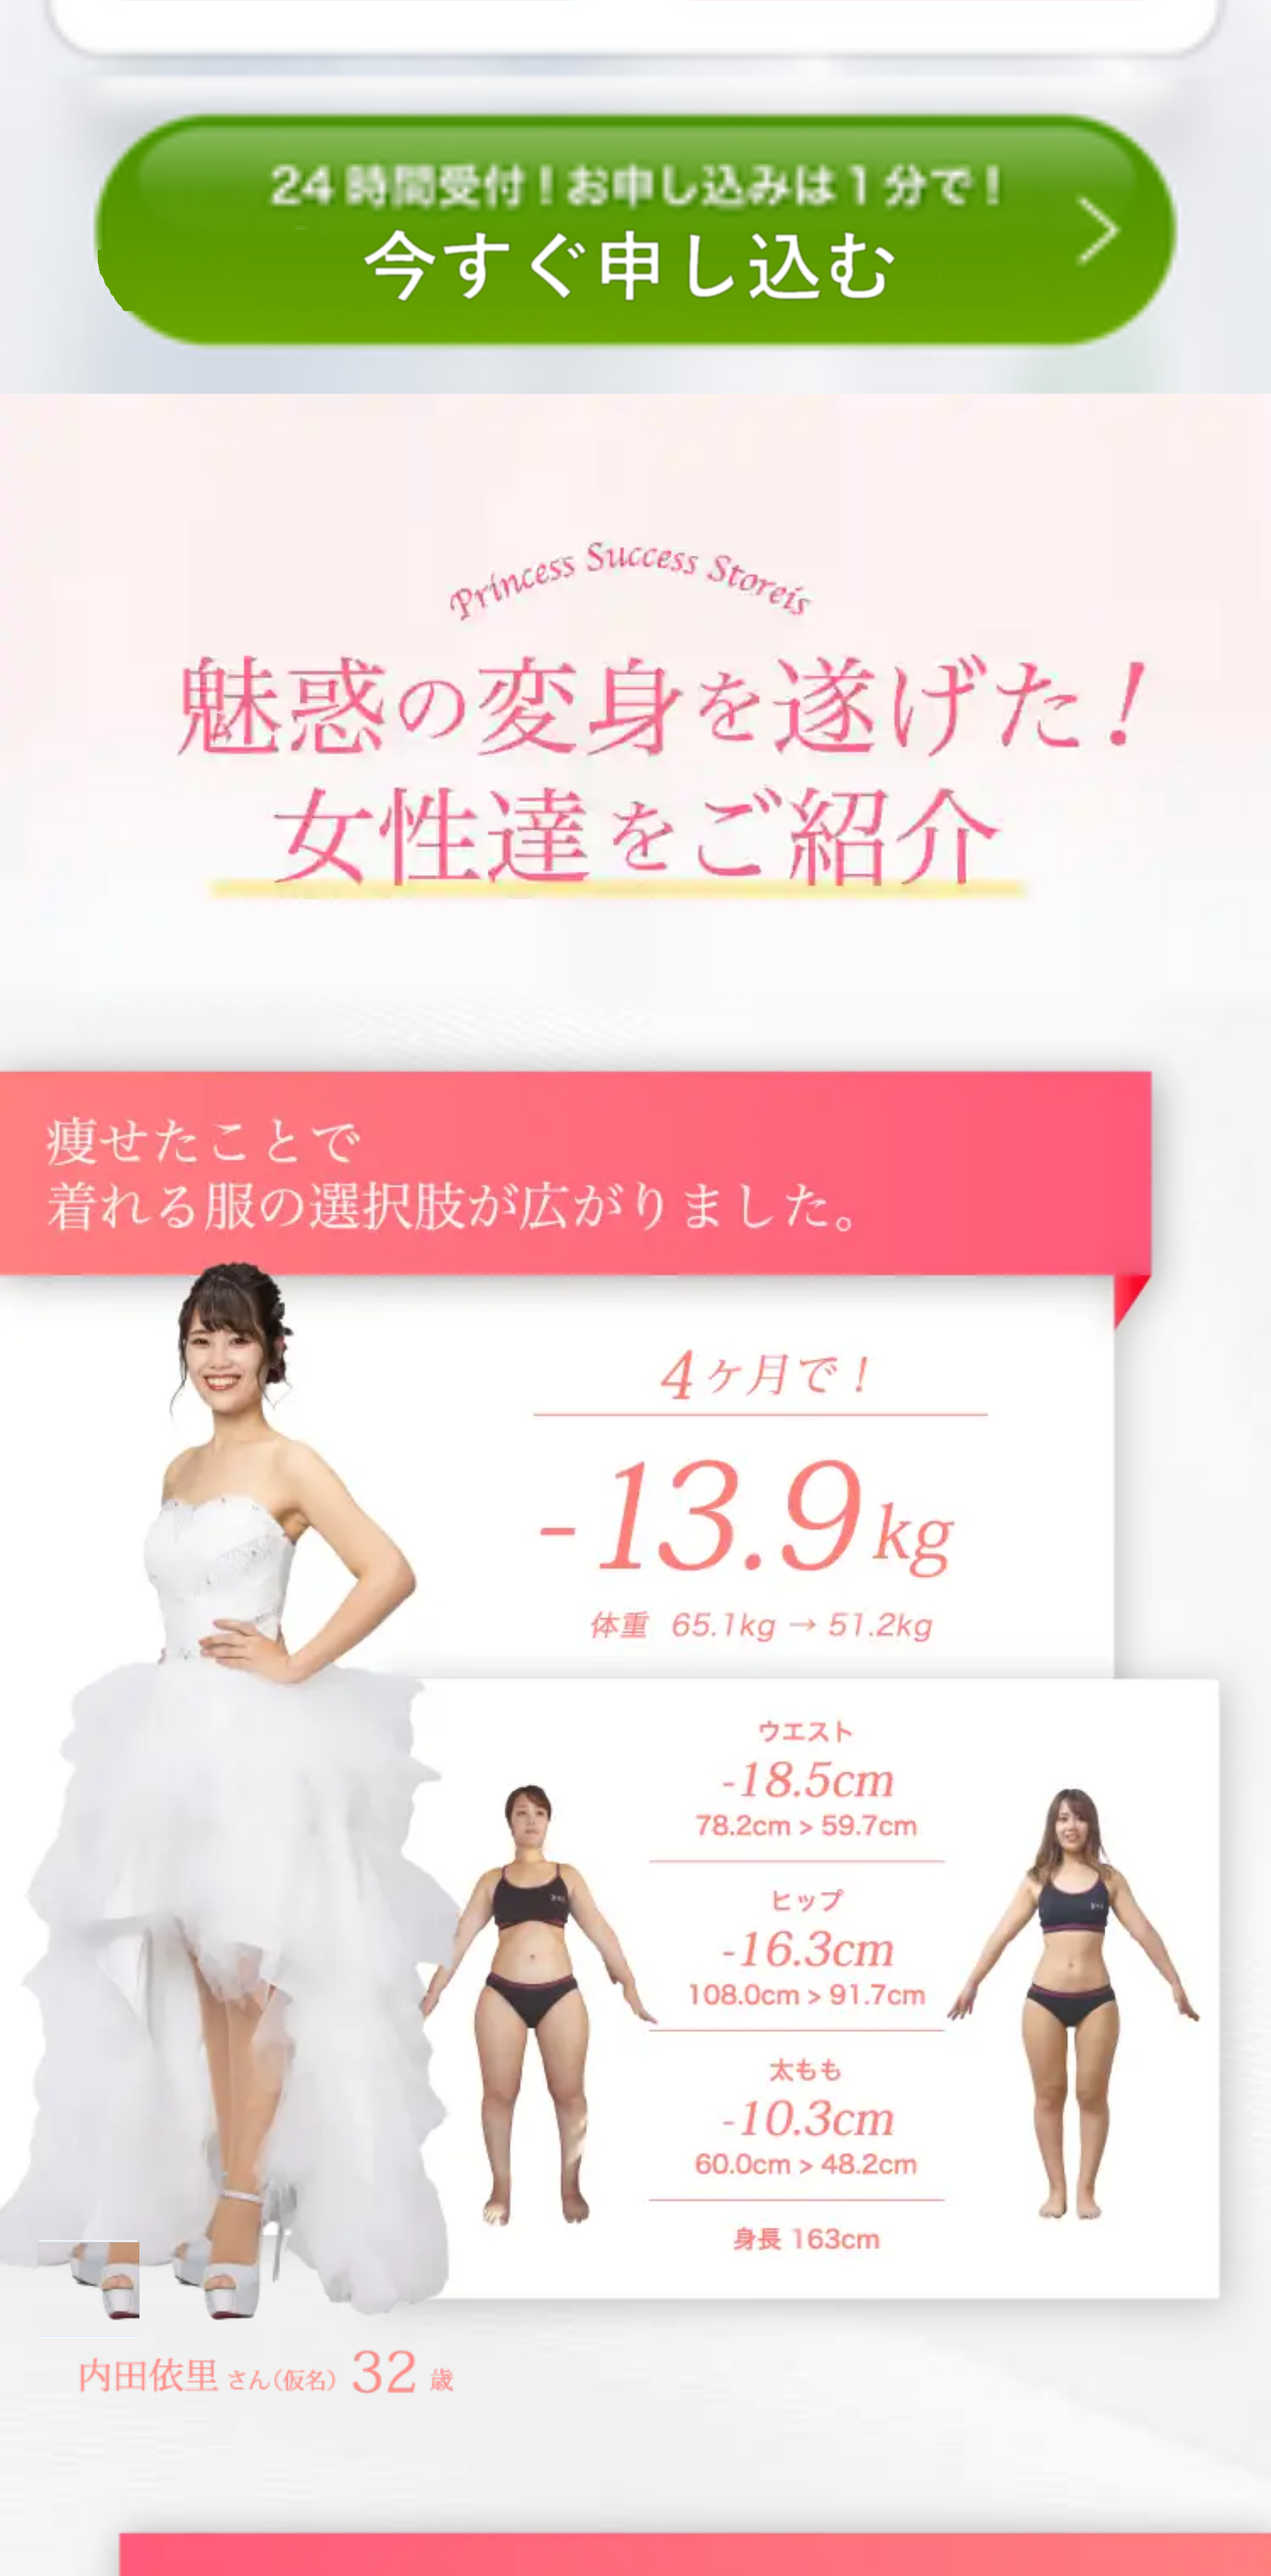
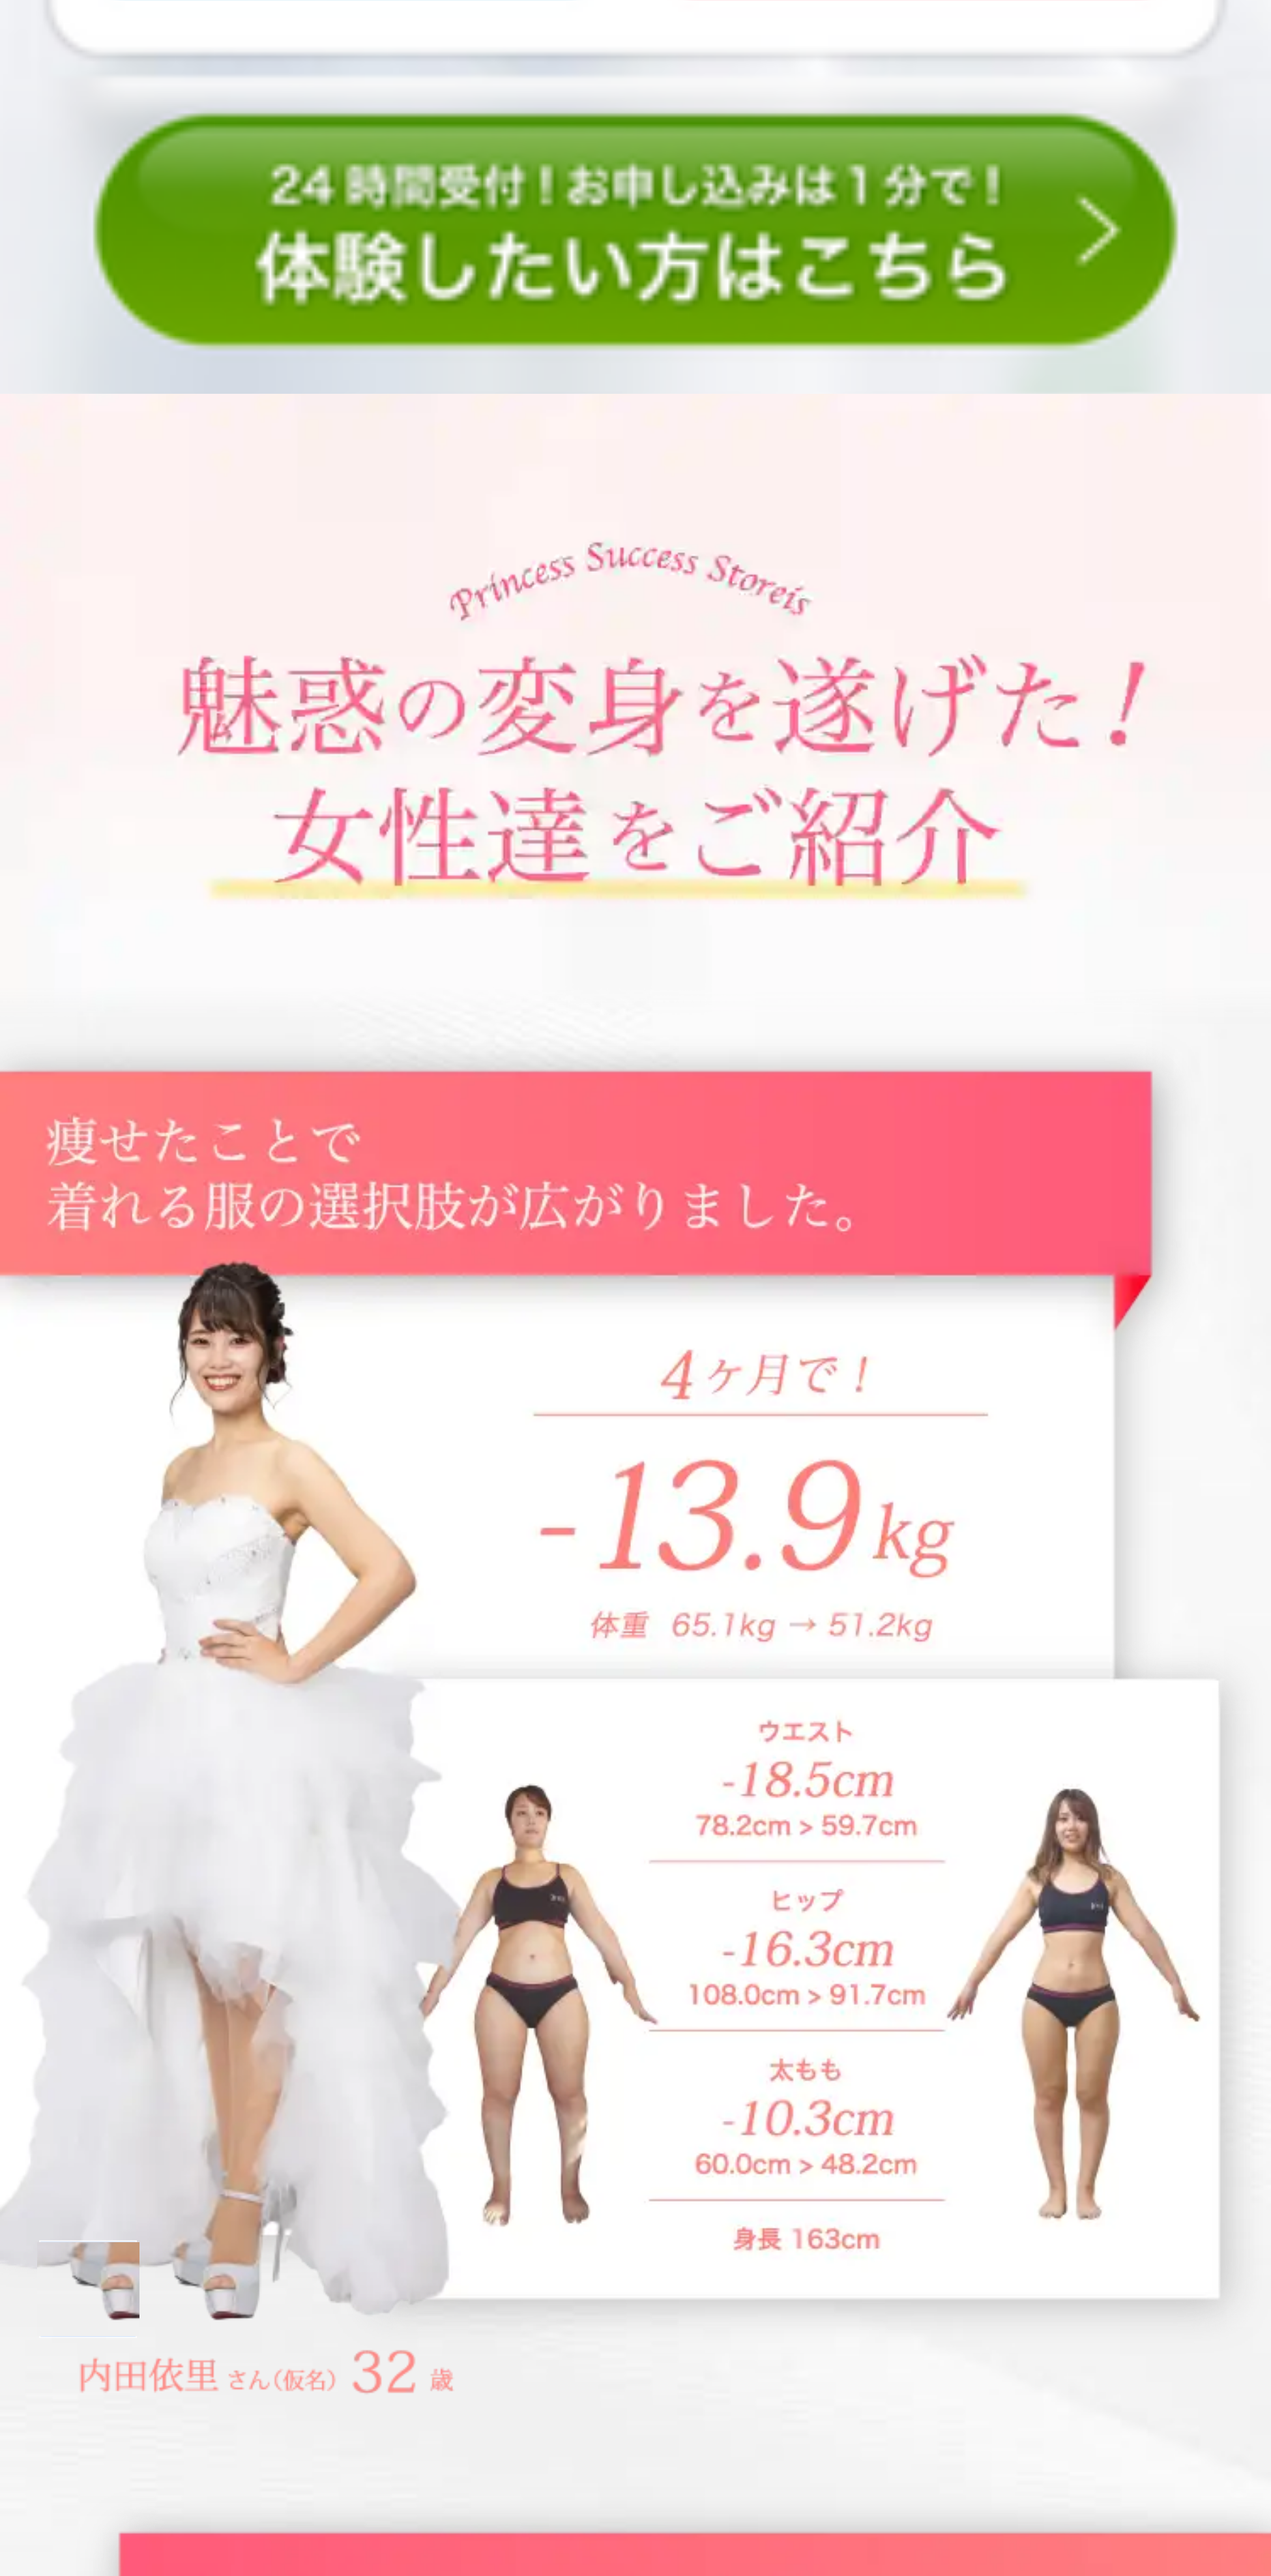
01: プレビュー更新

Changed region(s): [[0.1846, 0.0623, 0.8, 0.1245], [0.0615, 0.0934, 0.0923, 0.1245]]

diff --git a/01/index.html b/01/index.html
@@ -242,8 +242,8 @@
 
 <script>
 const EDITABLE = false; // true: Claudeアーティファクト版(db編集可) / false: Netlify公開版(閲覧専用)
-const SEED_VERSION = "20261002143527"; // SEEDの内容を更新するたびに値を変える(dbの古いデータより優先させるため)
-const SEED = [{"label": "btb-alt-10", "category": "バイオエステBTB", "sms": [["通数", "1通目", "2通目", "3通目", "4通目", "5通目", "6通目", "7通目", "8通目", "9通目", "10通目"], ["送信タイミング", "離脱から10分後", "1通目送信から2時間後", "2通目送信から2時間後", "3通目送信から24時間後", "4通目送信から24時間後", "5通目送信から48時間後", "6通目送信から48時間後", "7通目送信から48時間後", "8通目送信から168時間後", "9通目送信から168時間後"], ["狙い", "想起・リマインド", "セルライトの危険度を自覚", "悩みの言語化", "不安の言語化", "マシン・EMSの訴求", "施術フローの安心感", "数字・実績訴求", "実績・ビフォーアフターで信頼", "最終後押し・来店促進", "想起・最終確認"], ["SMS", "バイオエステBTB【公式】\n\n体験コースの空きが残りわずか⏰\n\nまずはお申し込みで\n今の状態をチェック💎\n\nお申し込みはこちら👇\n{{アフィリンク}}\n\n配信停止：{{配信停止URL}}", "バイオエステBTB【公式】\n\n＼食事制限も激しい運動も不要／\n身体の内側から整えて\nリバウンドしにくい身体へ🌿\n\nお申し込みはこちら👇\n{{アフィリンク}}\n\n配信停止：{{配信停止URL}}", "バイオエステBTB【公式】\n\n運動してもなかなか取れない\nセルライトはケアで変わります🌿\n\nお申し込みはこちら👇\n{{アフィリンク}}\n\n配信停止：{{配信停止URL}}", "バイオエステBTB【公式】\n\n20万人が選んだ\n本格セルライトケア💎\n\n全身5部位をまとめて、\n最新マシンでケアします🌿\n\nお申し込みはこちら👇\n{{アフィリンク}}\n\n配信停止：{{配信停止URL}}", "バイオエステBTB【公式】\n\nメスや医療処置は一切なし🙌\n痛くない・怖くないケア🌿\n\nお申し込みはこちら👇\n{{アフィリンク}}\n\n配信停止：{{配信停止URL}}", "バイオエステBTB【公式】\n\n来店までの流れは簡単💎\n①お申し込みで予約\n②カウンセリング\n③ケアスタート！\n\nお申し込みはこちら👇\n{{アフィリンク}}\n\n配信停止：{{配信停止URL}}", "バイオエステBTB【公式】\n\n体験者の声が続々届いています😊\nビフォーアフターをぜひご覧ください。\n\nお申し込みはこちら👇\n{{アフィリンク}}\n\n配信停止：{{配信停止URL}}", "バイオエステBTB【公式】\n\n＼業界唯一M3wave搭載／\n複合マシンによる\n最上級ケアも選べます💎\n\nお申し込みはこちら👇\n{{アフィリンク}}\n\n配信停止：{{配信停止URL}}", "バイオエステBTB【公式】\n\n体験コースは先着人数制⏰\n\nお悩みのままにせず\n今すぐチェックを💎\n\nお申し込みはこちら👇\n{{アフィリンク}}\n\n配信停止：{{配信停止URL}}", "バイオエステBTB【公式】\n\n理想のスリムボディへ\n最後の一歩を踏み出しませんか？✨\n\n全力でサポートします🙌\n\nお申し込みはこちら👇\n{{アフィリンク}}\n\n配信停止：{{配信停止URL}}"]], "html": [["通数", "1通目", "2通目", "3通目", "4通目", "5通目", "6通目", "7通目", "8通目", "9通目", "10通目"], ["送信タイミング", "離脱から10分後", "1通目送信から2時間後", "2通目送信から2時間後", "3通目送信から24時間後", "4通目送信から24時間後", "5通目送信から48時間後", "6通目送信から48時間後", "7通目送信から48時間後", "8通目送信から168時間後", "9通目送信から168時間後"], ["狙い", "想起・リマインド", "セルライトの危険度を自覚", "悩みの言語化", "不安の言語化", "マシン・EMSの訴求", "施術フローの安心感", "数字・実績訴求", "実績・ビフォーアフターで信頼", "最終後押し・来店促進", "想起・最終確認"], ["件名", "【バイオエステBTB】体験コース、まずはお申し込みから", "【バイオエステBTB】あなたのセルライト危険度をチェック", "【バイオエステBTB】女性なら誰もが感じる身体の悩み", "【バイオエステBTB】こんなセルライトはありませんか？", "【バイオエステBTB】最新マシンでセルライトを徹底ケア", "【バイオエステBTB】施術の流れと、安心の理由", "【バイオエステBTB】20万人が選んだ本格セルライトケア", "【バイオエステBTB】ビフォーアフターで変わる、憧れボディへ", "【バイオエステBTB】今すぐ予約、体験コースは先着制", "【バイオエステBTB】理想のスリムボディへ、最後の一歩を"]], "msgCount": 10, "sharedLong": false, "longImages": [["v2_msg1_part1.jpg", "v2_msg1_part2.jpg", "v2_msg1_part3.jpg", "v2_msg1_part4.jpg", "v2_msg1_part5.jpg", "v2_msg1_part6.jpg", "v2_msg1_part7.jpg", "v2_msg1_part8.jpg", "v2_msg1_part9.jpg"], ["h16_m1_part1.jpg", "h16_m1_part2.jpg", "h16_m1_part3.jpg"], ["v2_msg2_part1.jpg", "v2_msg2_part2.jpg", "v2_msg2_part3.jpg", "v2_msg2_part4.jpg", "v2_msg2_part5.jpg", "v2_msg2_part6.jpg", "v2_msg2_part7.jpg", "v2_msg2_part8.jpg", "v2_msg2_part9.jpg", "v2_msg2_part10.jpg", "v2_msg2_part11.jpg", "v2_msg2_part12.jpg", "v2_msg2_part13.jpg", "v2_msg2_part14.jpg"], ["h16_m2_part1.jpg", "h16_m2_part2.jpg", "h16_m2_part3.jpg"], ["m3_part1.png", "m3_part2.png", "m3_part3.png"], ["h16_m3_part1.jpg", "h16_m3_part2.jpg", "h16_m3_part3.jpg"], ["m4_part1.png", "m4_part2.png", "m4_part3.png"], ["h16_m4_part1.jpg", "h16_m4_part2.jpg", "h16_m4_part3.jpg"], ["m5_part1.png", "m5_part2.png", "m5_part3.png"], ["h16_m1_part1.jpg", "h16_m1_part2.jpg", "h16_m1_part3.jpg"]]}];
+const SEED_VERSION = "20261018150000"; // SEEDの内容を更新するたびに値を変える(dbの古いデータより優先させるため)
+const SEED = [{"label": "btb-alt-10", "category": "バイオエステBTB", "sms": [["通数", "1通目", "2通目", "3通目", "4通目", "5通目", "6通目", "7通目", "8通目", "9通目", "10通目"], ["送信タイミング", "離脱から10分後", "1通目送信から2時間後", "2通目送信から2時間後", "3通目送信から24時間後", "4通目送信から24時間後", "5通目送信から48時間後", "6通目送信から48時間後", "7通目送信から48時間後", "8通目送信から168時間後", "9通目送信から168時間後"], ["狙い", "想起・リマインド", "セルライトの危険度を自覚", "悩みの言語化", "不安の言語化", "マシン・EMSの訴求", "施術フローの安心感", "数字・実績訴求", "実績・ビフォーアフターで信頼", "最終後押し・来店促進", "想起・最終確認"], ["SMS", "バイオエステBTB【公式】\n\n体験コースの空きが残りわずか⏰\n\nまずはお申し込みで\n今の状態をチェック💎\n\nお申し込みはこちら👇\n{{アフィリンク}}\n\n配信停止：{{配信停止URL}}", "バイオエステBTB【公式】\n\n＼食事制限も激しい運動も不要／\n身体の内側から整えて\nリバウンドしにくい身体へ🌿\n\nお申し込みはこちら👇\n{{アフィリンク}}\n\n配信停止：{{配信停止URL}}", "バイオエステBTB【公式】\n\n運動してもなかなか取れない\nセルライトはケアで変わります🌿\n\nお申し込みはこちら👇\n{{アフィリンク}}\n\n配信停止：{{配信停止URL}}", "バイオエステBTB【公式】\n\n20万人が選んだ\n本格セルライトケア💎\n\n全身5部位をまとめて、\n最新マシンでケアします🌿\n\nお申し込みはこちら👇\n{{アフィリンク}}\n\n配信停止：{{配信停止URL}}", "バイオエステBTB【公式】\n\nメスや医療処置は一切なし🙌\n痛くない・怖くないケア🌿\n\nお申し込みはこちら👇\n{{アフィリンク}}\n\n配信停止：{{配信停止URL}}", "バイオエステBTB【公式】\n\n来店までの流れは簡単💎\n①お申し込みで予約\n②カウンセリング\n③ケアスタート！\n\nお申し込みはこちら👇\n{{アフィリンク}}\n\n配信停止：{{配信停止URL}}", "バイオエステBTB【公式】\n\n体験者の声が続々届いています😊\nビフォーアフターをぜひご覧ください。\n\nお申し込みはこちら👇\n{{アフィリンク}}\n\n配信停止：{{配信停止URL}}", "バイオエステBTB【公式】\n\n＼業界唯一M3wave搭載／\n複合マシンによる\n最上級ケアも選べます💎\n\nお申し込みはこちら👇\n{{アフィリンク}}\n\n配信停止：{{配信停止URL}}", "バイオエステBTB【公式】\n\n体験コースは先着人数制⏰\n\nお悩みのままにせず\n今すぐチェックを💎\n\nお申し込みはこちら👇\n{{アフィリンク}}\n\n配信停止：{{配信停止URL}}", "バイオエステBTB【公式】\n\n理想のスリムボディへ\n最後の一歩を踏み出しませんか？✨\n\n全力でサポートします🙌\n\nお申し込みはこちら👇\n{{アフィリンク}}\n\n配信停止：{{配信停止URL}}"]], "html": [["通数", "1通目", "2通目", "3通目", "4通目", "5通目", "6通目", "7通目", "8通目", "9通目", "10通目"], ["送信タイミング", "離脱から10分後", "1通目送信から2時間後", "2通目送信から2時間後", "3通目送信から24時間後", "4通目送信から24時間後", "5通目送信から48時間後", "6通目送信から48時間後", "7通目送信から48時間後", "8通目送信から168時間後", "9通目送信から168時間後"], ["狙い", "想起・リマインド", "セルライトの危険度を自覚", "悩みの言語化", "不安の言語化", "マシン・EMSの訴求", "施術フローの安心感", "数字・実績訴求", "実績・ビフォーアフターで信頼", "最終後押し・来店促進", "想起・最終確認"], ["件名", "【バイオエステBTB】体験コース、まずはお申し込みから", "【バイオエステBTB】あなたのセルライト危険度をチェック", "【バイオエステBTB】女性なら誰もが感じる身体の悩み", "【バイオエステBTB】こんなセルライトはありませんか？", "【バイオエステBTB】最新マシンでセルライトを徹底ケア", "【バイオエステBTB】施術の流れと、安心の理由", "【バイオエステBTB】20万人が選んだ本格セルライトケア", "【バイオエステBTB】ビフォーアフターで変わる、憧れボディへ", "【バイオエステBTB】今すぐ予約、体験コースは先着制", "【バイオエステBTB】理想のスリムボディへ、最後の一歩を"]], "msgCount": 10, "sharedLong": false, "longImages": [["v2_msg1_part1.jpg", "v2_msg1_part2.jpg", "v2_msg1_part3.jpg", "v2_msg1_part4_ctafix.jpg", "v2_msg1_part5.jpg", "v2_msg1_part6.jpg", "v2_msg1_part7.jpg", "v2_msg1_part8.jpg", "v2_msg1_part9_ctafix.jpg"], ["h16_m1_part1.jpg", "h16_m1_part2.jpg", "h16_m1_part3.jpg"], ["v2_msg2_part1.jpg", "v2_msg2_part2.jpg", "v2_msg2_part3.jpg", "v2_msg2_part4_ctafix.jpg", "v2_msg2_part5.jpg", "v2_msg2_part6.jpg", "v2_msg2_part7.jpg", "v2_msg2_part8.jpg", "v2_msg2_part9.jpg", "v2_msg2_part10.jpg", "v2_msg2_part11.jpg", "v2_msg2_part12_ctafix.jpg", "v2_msg2_part13_ctafix.jpg", "v2_msg2_part14.jpg"], ["h16_m2_part1.jpg", "h16_m2_part2.jpg", "h16_m2_part3.jpg"], ["m3_part1_ctafix.png", "m3_part2_ctafix.png", "m3_part3_ctafix.png"], ["h16_m3_part1.jpg", "h16_m3_part2.jpg", "h16_m3_part3.jpg"], ["m4_part1.png", "m4_part2_ctafix.png", "m4_part3.png"], ["h16_m4_part1.jpg", "h16_m4_part2.jpg", "h16_m4_part3.jpg"], ["m5_part1_ctafix.png", "m5_part2.png", "m5_part3.png"], ["h16_m1_part1.jpg", "h16_m1_part2.jpg", "h16_m1_part3.jpg"]]}];
 
 function shortUrl(label, msgN){
   return `images/${label}_msg${msgN}_short.png`;
